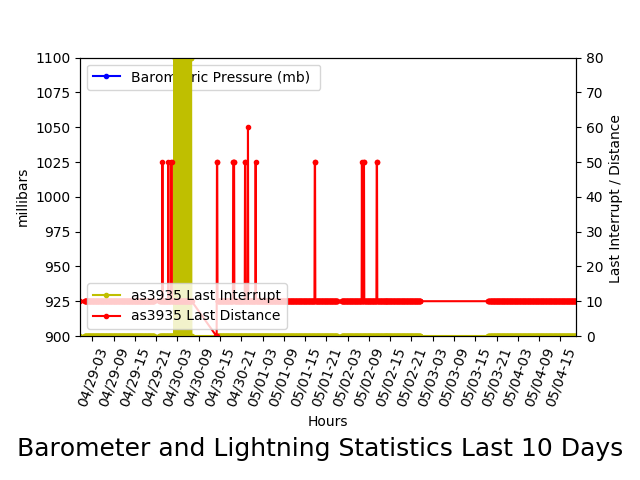
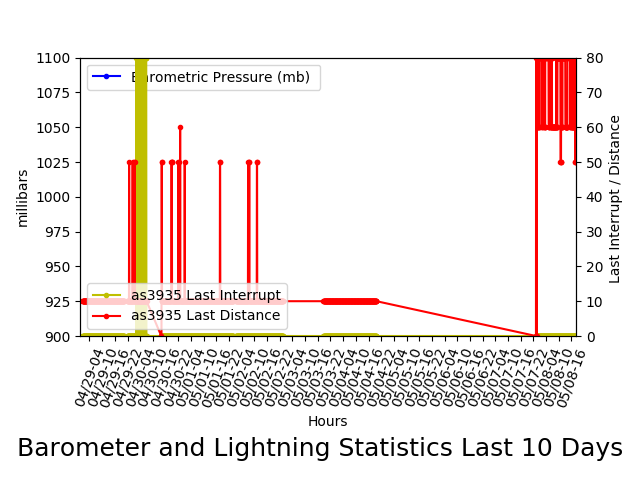
V035 - Fixed Baro reporting

Changed region(s): [[0.0938, 0.125, 0.9062, 0.8438], [0.4375, 0.3125, 0.5, 0.6562]]

diff --git a/SkyWeather.py b/SkyWeather.py
@@ -14,7 +14,7 @@ try:
 except ImportError:
 	import config
 
-config.SWVERSION = "034"
+config.SWVERSION = "035"
 
 
 import sys
@@ -924,7 +924,7 @@ def sampleWeather():
 			bmp180Altitude = config.BMP280_Altitude_Meters 
 			bmp180SeaLevel = BME680_Functions.getSeaLevelPressure(config.BMP280_Altitude_Meters, bmp180Pressure)
                         # reset read pressure to Sea Level
-                        bmp180Pressure = bmp180SeaLevel 
+                        #bmp180Pressure = bmp180SeaLevel 
 
 		except:
         		print("Unexpected error:", sys.exc_info()[0])
@@ -1079,7 +1079,7 @@ def sampleWeather():
         state.ScurrentWindDirection  = currentWindDirection
         state.currentTotalRain  = totalRain
 
-        state.currentBarometricPressure = bmp180SeaLevel 
+        state.currentBarometricPressure = bmp180Pressure 
 
         state.currentAltitude = bmp180Altitude
         state.currentSeaLevel = bmp180SeaLevel

diff --git a/config.py b/config.py
@@ -66,7 +66,7 @@ BLYNK_URL = 'http://blynk-cloud.com/'
 
 # for barometeric pressure - needed to calculate sealevel equivalent - set your weatherstation elevation here
 
-BMP280_Altitude_Meters = 648.0
+BMP280_Altitude_Meters = 328.0
 
 # device present global variables
 

diff --git a/README.md b/README.md
@@ -2,10 +2,11 @@ SkyWeather Libraries and Examples for Raspberry Pi Solar Powered Weather Station
 
 Supports SwitchDoc Labs WeatherRack PiWeather Board 
 
-Version V034 
+Version V035 
 
 http://www.switchdoc.com/
 
+May 20, 2019:    Version 035 - Fixed Barometric Pressure Reporting<BR>
 May 4, 2019:     Version 034 - WeatherSTEM testing Version<BR>
 May 1, 2019:     Version 033 - WeatherSTEM API Started<BR>
 April 29, 2019:  Version 033 - WeatherSTEM Modification<BR>
